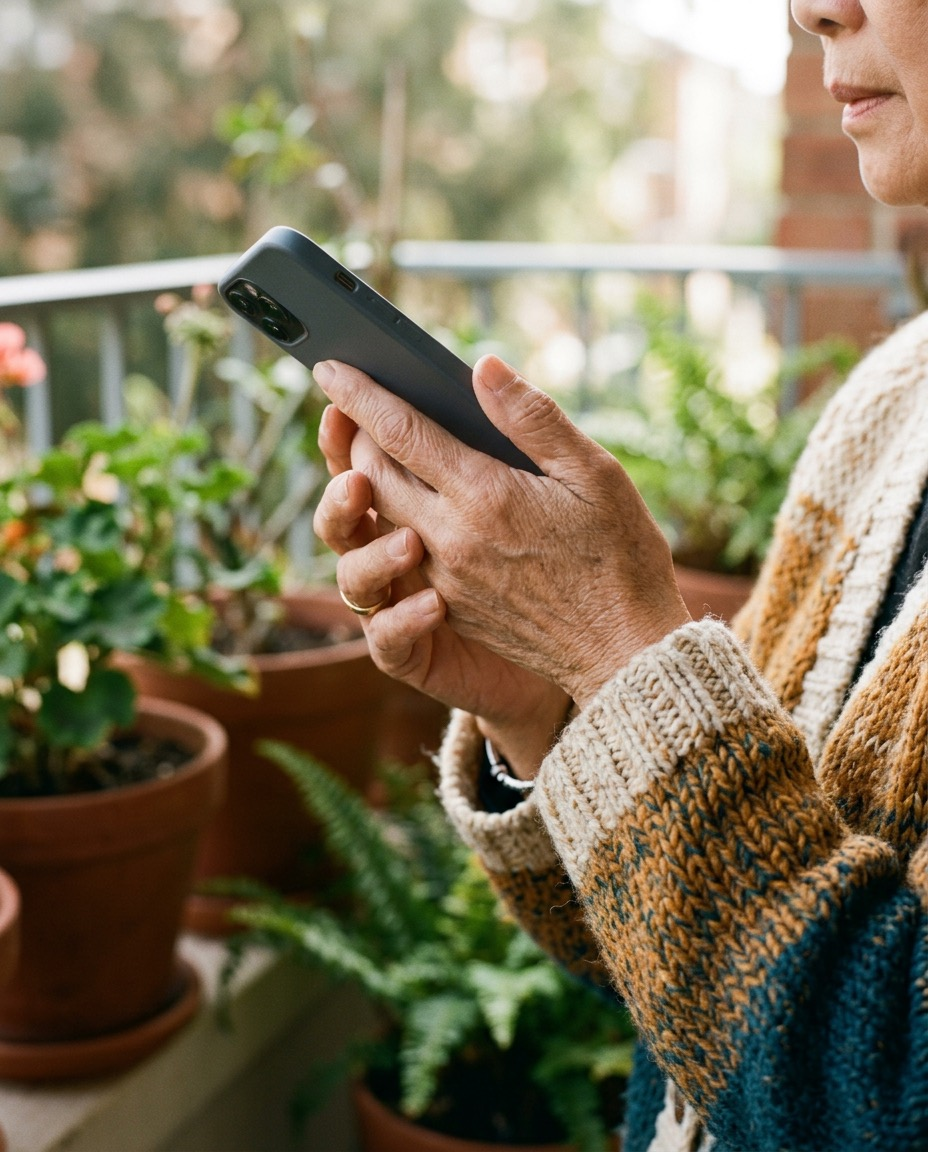
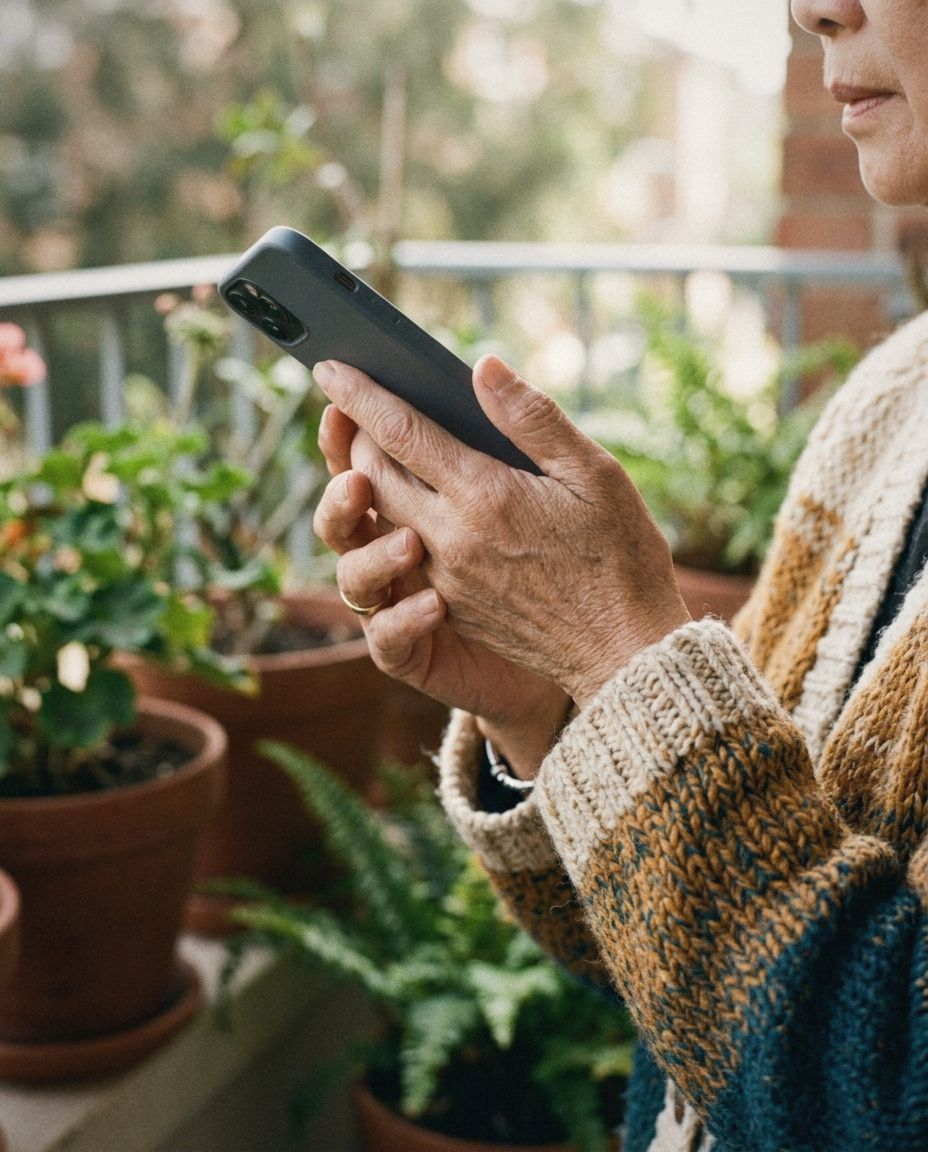
Give the site's photographs one natural film finish so they stop looking generated
The four photographs (Mom at her table, the daughter, her hands with the phone,
the family dinner) were too clean: even light, no grain, over-sharp edges.
Each now has the same 35mm-style finish: lifted blacks and softer highlights,
slightly lower saturation with warm highlights and cool shadows, a touch of
softening, fine grain strongest in the midtones, and a soft vignette. The
daughter's photo is cropped to her face for the hero circle, and the garbled
label on the back of her phone is painted out. The family band now keeps
their faces in the upper half, with the words on the darkened table below.
The four files drop from about 0.95 MB to 0.5 MB. The footer still says the
photographs are illustrative scenes, not Vela families.

diff --git a/apps/worker/src/site.ts b/apps/worker/src/site.ts
@@ -1643,7 +1643,7 @@ export function siteHome(lang: SiteLang, flash: WaitlistFlash = null): SitePageC
   </div></div>
   <div class="hero-photo">
     <img class="her-photo" src="${IMG}/morning-tea.jpg" width="1264" height="848" alt="${c.hero.photoAlt}" fetchpriority="high">
-    <div class="from-you"><img src="${IMG}/daughter-city.jpg" width="928" height="1152" alt="${c.hero.youAlt}"><p class="say you">${c.hero.exchange.you}</p></div>
+    <div class="from-you"><img src="${IMG}/daughter-city.jpg" width="480" height="480" alt="${c.hero.youAlt}"><p class="say you">${c.hero.exchange.you}</p></div>
     <p class="say her">${c.hero.exchange.her}<small>${c.hero.exchange.when}</small></p>
   </div>
 </section>

diff --git a/apps/worker/site-assets/site/site.css b/apps/worker/site-assets/site/site.css
@@ -2567,7 +2567,6 @@ input[type="email"] {
   height: auto;
   aspect-ratio: 1;
   object-fit: cover;
-  object-position: 50% 28%;
   border-radius: 50%;
   border: 3px solid #fff;
   box-shadow: 0 10px 24px -14px #1e1a16aa;
@@ -2839,4 +2838,20 @@ input[type="email"] {
   .morning .step {
     min-height: 24vh;
   }
+}
+
+/* Family band: keep their faces in the upper half and set the words on the darkened table below. */
+.bleed img {
+  object-position: 50% 62%;
+}
+.bleed::before {
+  background: linear-gradient(
+    180deg,
+    transparent 38%,
+    rgba(27, 23, 20, 0.55) 62%,
+    rgba(27, 23, 20, 0.88)
+  );
+}
+.bleed h2 {
+  font-size: clamp(2rem, 4vw, 3.2rem);
 }
